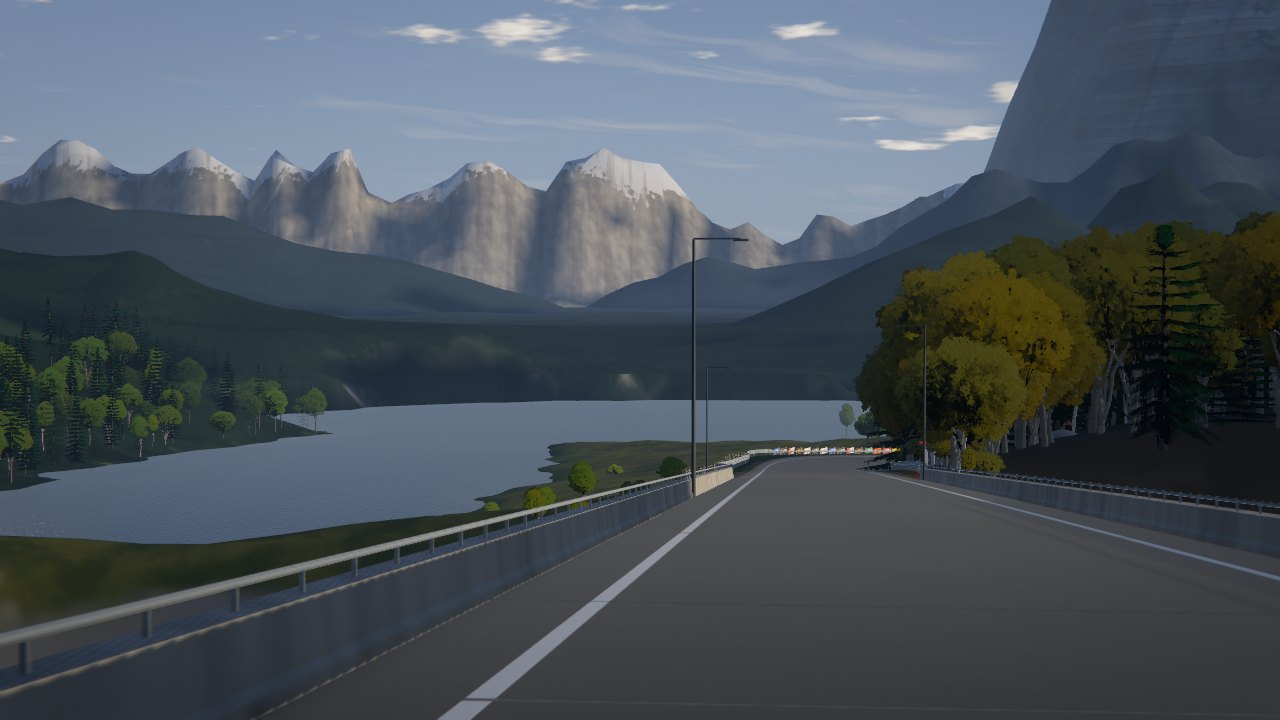
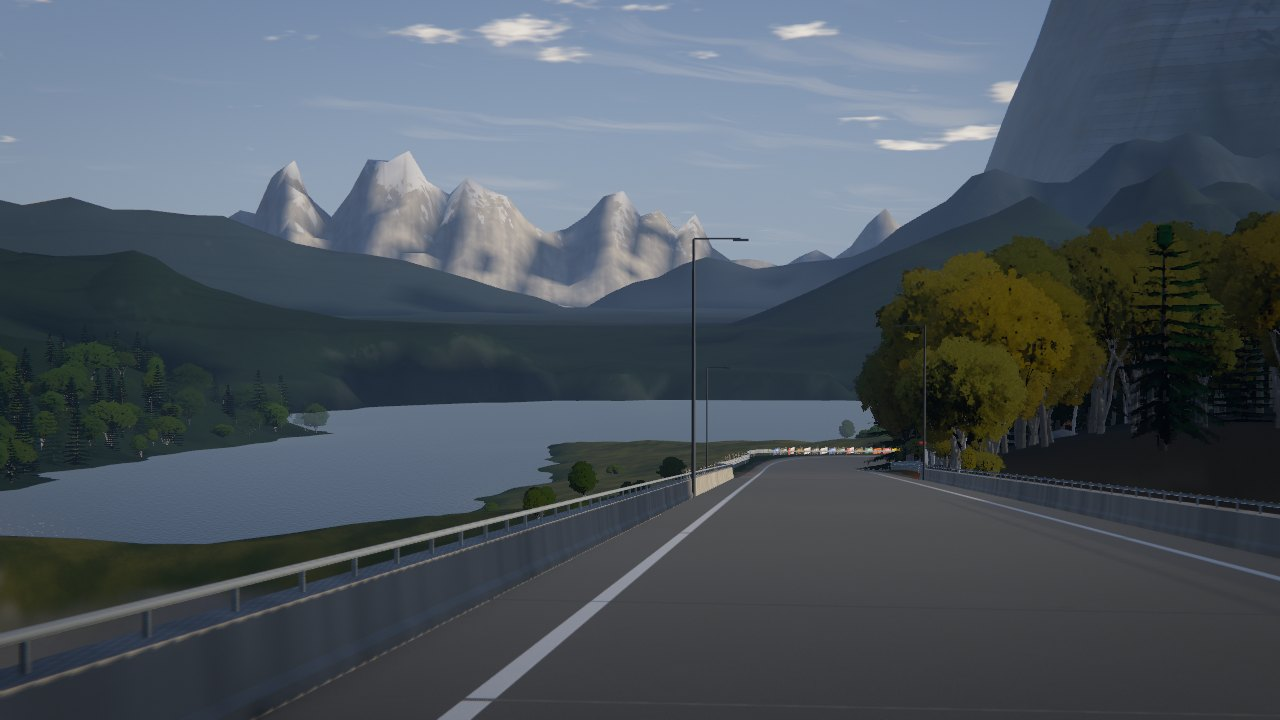
Dreamcar: the arm's range is one jagged massif, lit in paint; its shore's trees dark, skirted and uneven
Fourth round on the arm of the lake (r4): tone, paint and the shape of
scenery only.

The range read as a row of rounded lumps of one width with evenly spaced
gullies, in shade. It is composed as one massif now: a dominant summit left
of the road's line, a lesser one, shoulders stepping away; a skyline of
sharp peaks of uneven spacing and width; a sharp crest line; gullies that
branch on the way down. Its rock is paler and warmer on the faces square to
the day's sun and greyer on those turned from it, with small aretes painted
where the cells round the ridges off, the dusting of snow reaches further
down the sunward faces, and the whole is lifted towards the air's tone: it
stands at 0.96 of the sky's luminance in the measured box (the photograph
0.96; it was 0.70).

The far shores' forest mask is the dark wood's from the waterline whatever
the land's own (vertices at exactly 1.0 were painted by neither wood: the
pale patches at the water). The trees on the far shores, the lap's and the
place's, are darker, a fifth under the ground, wider and of uneven height;
the young growth and the low bushes on the bank are in the bank's own dark
tone. The painted wood is quieter.

Docs and the staged picture with it.

Claude-Session: https://claude.ai/code/session_01Wk7hSoYS2YpKJEfRQJQQPF

diff --git a/03-dreamcar/src/assets/world/arm.js b/03-dreamcar/src/assets/world/arm.js
@@ -92,8 +92,10 @@ export const ARM = {
    * [root angle, root distance, tip angle, tip distance, its crest's height at the root (m), half its width at the
    * root (m)]: the crest falls from root to tip, unevenly, and the flanks fall away from it. Behind them a range
    * of bare peaks closes the valley `range.at` m out (wandering by `wander`), `half` m from foot to crest, its
-   * crest `relief[0]` to `relief[0] + relief[1]` m high, between `angle` degrees; gullies run down its face
-   * (`gully`: degrees of bearing from one to the next, the share of the height they cut). Its snow is a dusting
+   * crest `relief[0]` to `relief[0] + relief[1]` m high, between `angle` degrees: one massif (`summit`: the
+   * bearing of its highest point and how wide it stands; `second`: a lesser summit's bearing, width and share;
+   * `low`: the shoulders' share far from both) with a jagged skyline; gullies branch down its face (`gully`:
+   * about how many degrees of bearing from one to the next, the share of the height they cut). Its snow is a dusting
    * that follows its own shape (`snow`: the share of a peak's height where it begins, and by how much that line
    * wanders along the range; `dust`: it thins out over this much below the line and thickens over this much
    * above it): it reaches lower in the gullies, lies thin on steep rock, thickest at the crests. The spurs are
@@ -105,7 +107,7 @@ export const ARM = {
     [45, 2350, 5, 2450, 330, 470],
     [-16, 3250, 9, 2950, 380, 520],
   ],
-  range: { at: 4050, wander: 170, half: 540, relief: [230, 380], angle: [-26, -12, 46, 60], gully: [2.3, 0.14], snow: [0.5, 0.2], dust: [0.22, 0.36] },
+  range: { at: 4050, wander: 170, half: 560, relief: [150, 560], angle: [-26, -12, 46, 60], summit: [13, 8], second: [-6, 5, 0.6], low: 0.3, gully: [3.1, 0.24], snow: [0.46, 0.18], dust: [0.24, 0.36] },
   /**
    * The open bank: beside the road from `open[0]` to `open[1]` m from the section's start, on the left, the lap's
    * woods give way as far as the water (and no further than `reach` m beyond the edge): grass, a fence, young
@@ -127,14 +129,16 @@ export const ARM = {
   fine: [110, 200],
   /**
    * What forest.js plants. `shore`: the wood on the far shores (from this many metres back from the water, this
-   * far up the hill, lattice, share planted, share of conifers, its tone over the trees' greens). `groups`: young
+   * far up the hill, lattice, share planted, share of conifers, its tone over the trees' greens; every tree of it,
+   * and every tree of the lap's that stands there, `sink` of its height under the ground and `wide` times as wide,
+   * skirted to the grass, and the lap's between `size` times their height: no two alike). `groups`: young
    * growth on the open bank: [metres from the section's start, metres beyond the left edge, how many, spread (m)],
    * birch and lime saplings sunk to their crowns, never taller than `young` m.
    */
   planting: {
-    shore: { from: 5, reach: 260, lattice: 6.2, density: 0.85, conifer: 0.6, tone: [0.3, 0.4, 0.44] },
+    shore: { from: 5, reach: 260, lattice: 6.2, density: 0.85, conifer: 0.6, tone: [0.14, 0.21, 0.2], sink: 0.2, wide: 1.35, size: [0.6, 1.15] },
     /** The young growth's tone and how wide each stands (irregular: no two alike). */
-    youngTone: [0.44, 0.5, 0.52],
+    youngTone: [0.15, 0.2, 0.17],
     /**
      * The massif's foot on the right of the road, from `along[0]` to `along[1]` m from the section's start: the dark
      * wood carried up the slope behind the lap's own rows, from `beyond[0]` to `beyond[1]` m beyond the right edge,
@@ -164,6 +168,8 @@ export const ARM = {
   fence: { from: -2, to: 168, beyond: 3.2 },
   /** The long grass (the approach meadow's cards): cards per metre of road as a share of the meadow's, their tint. */
   grass: { share: 1.4, tint: [1.15, 1.0, 0.7] },
+  /** The lap's low bushes on the open bank: a tint over their green (olive, in the bank's own tone; they were lit lime). */
+  bush: [2.1, 1.7, 1.1],
 };
 
 /**
@@ -316,17 +322,25 @@ function build(track, rng, section) {
     if (w <= 0) return peak;
     const across = 1 - Math.abs(r - (K.at + K.wander * Math.sin(a * 0.19 + 2))) / K.half;
     if (across <= 0) return peak;
-    // great peaks and saddles along the ridge, smaller peaks of uneven height between them
-    const crest = 0.58 * noise.ridged(a / 7.5 + 9, 3.3, 3) + 0.42 * noise.ridged(a / 2.3 + 4, 7.7, 2);
-    // ribs across its face, and gullies down it (they run down the fall line: along r, so they are a pattern of
-    // the bearing alone), deepest on the middle of the face
-    const rib = 0.74 + 0.26 * noise.fbm(a / 2.2, r / 240, 2);
-    const gully = noise.ridged(a / K.gully[0] + 1.7, 5.1, 2);
-    // (its foot is a long apron and its upper face steep: the height goes with the distance in from the foot
-    // to the power 1.5, buttresses standing out of it)
-    const butt = 0.85 + 0.3 * noise.fbm(a / 4.3 + 2, r / 420 + 1, 2);
-    const shape = w * Math.min(1, across * butt) ** 1.5 * rib * ((K.relief[0] + K.relief[1] * crest) / (K.relief[0] + K.relief[1]));
-    const up = shape * (1 - K.gully[1] * gully * smoothstep(0.04, 0.3, shape) * (1 - 0.6 * shape));
+    // One massif, not a row of peaks: a dominant summit off the middle of the view (`summit`: its bearing, how
+    // wide it stands, in degrees) with lower shoulders stepping away on either side, and a second, lesser one.
+    const main = Math.exp(-(((a - K.summit[0]) / K.summit[1]) ** 2));
+    const second = Math.exp(-(((a - K.second[0]) / K.second[1]) ** 2));
+    const massif = K.low + (1 - K.low) * Math.max(main, K.second[2] * second);
+    // its skyline: sharp peaks of uneven spacing and width (a ridge noise read at a bearing that is itself
+    // pushed about, raised to a power: narrow points, wide saddles), small teeth on them
+    const aw = a + 3.2 * (noise.fbm(a / 6.1 + 3, 1.9, 2) - 0.5) + 1.1 * (noise.fbm(a / 1.7 + 8, 4.4, 2) - 0.5);
+    const crest = (0.62 * noise.ridged(aw / 5.2 + 9, 3.3, 4) ** 1.7 + 0.26 * noise.ridged(aw / 1.9 + 4, 7.7, 3) ** 1.4 + 0.12 * noise.ridged(aw / 0.7 + 2, 1.2, 2)) * massif;
+    // its face: a long apron under a steep upper wall and a sharp crest line (no flat top), buttresses standing
+    // out of it, and gullies that begin under the crest and branch on the way down: a ridge noise of the bearing
+    // whose bearing is bent by the height, so that two gullies run together lower down and none is parallel to
+    // the next
+    const butt = 0.82 + 0.36 * noise.fbm(a / 4.3 + 2, r / 420 + 1, 2);
+    const face = across ** 1.35 * butt;
+    const ab = aw + (1 - across) * 2.6 * (noise.fbm(a / 2.9 + 5, 6.2, 2) - 0.5);
+    const gully = Math.max(noise.ridged(ab / K.gully[0] + 1.7, 5.1 + across * 0.8, 3) ** 1.5, 0.7 * noise.ridged(ab / (K.gully[0] * 0.37) + 6.3, 2.2 + across * 1.7, 2) ** 2);
+    const shape = w * face * ((K.relief[0] + K.relief[1] * crest) / (K.relief[0] + K.relief[1]));
+    const up = shape * (1 - K.gully[1] * gully * smoothstep(0.03, 0.22, shape) * (1 - 0.45 * across));
     peak.h = up * (K.relief[0] + K.relief[1]);
     peak.up = up;
     peak.gully = gully;
@@ -442,9 +456,9 @@ function build(track, rng, section) {
       // between a vertex in the water and one on the bank is then wooded to the waterline, not bare outcrop)
       if (q > -3) return 1.5 * (1 - o);
       const P = A.planting.shore;
-      const far = 0.92 * smoothstep(2, 7, -q) * (1 - smoothstep(P.reach, P.reach + 120, -q));
-      // (the wood on the far shores is the dark wood too)
-      return (Math.max(f, far) + 0.6 * far * (f <= 1 ? 1 : 0)) * (1 - o);
+      // (the wood on the far shores is the dark wood too, from the waterline: whatever the land's own mask is)
+      const far = 1 - smoothstep(P.reach, P.reach + 120, -q);
+      return Math.max(f, 1.5 * far) * (1 - o);
     },
 
     /** 0..1 how much of the ground at a point is the arm's own fine ground (terrain.js draws it there). */

diff --git a/03-dreamcar/src/assets/world/groundMaterial.js b/03-dreamcar/src/assets/world/groundMaterial.js
@@ -21,6 +21,7 @@ import { fieldTexture, gradientField, normalTexture, valueField, worleyField } f
 import { extend, withBake } from './shading.js';
 import { GOLDWOOD } from './goldwood.js';
 import { ARM } from './arm.js';
+import { TIMES } from './lighting.js';
 
 /**
  * (finish lane) The one green of the grass, linear albedo: the meadow (lush where it is damp, drier and a little
@@ -390,8 +391,8 @@ if ( gDark > 0.0 ) {
   float dCrown = texture2D( uLarge, vGroundPos.xz / 47.0 + vec2( 0.55, 0.17 ) ).b;
   float dClear = smoothstep( 0.66, 0.76, texture2D( uLarge, vGroundPos.xz / 137.0 + vec2( 0.77, 0.31 ) ).g );
   float dGully = texture2D( uLarge, vec2( ( vGroundPos.x * 0.6 + vGroundPos.z * 0.8 ) / 90.0, vGroundPos.y / 260.0 ) ).a;
-  vec3 wood = vec3( 0.0085, 0.017, 0.0105 ) * ( 0.62 + 0.5 * dStand + 0.45 * dCrown ) * ( 1.0 - 0.35 * smoothstep( 0.55, 0.8, dGully ) );
-  wood = mix( wood, vec3( 0.017, 0.028, 0.014 ) * ( 0.8 + 0.4 * dCrown ), dClear * 0.6 );
+  vec3 wood = vec3( 0.0095, 0.019, 0.0118 ) * ( 0.8 + 0.24 * dStand + 0.2 * dCrown ) * ( 1.0 - 0.3 * smoothstep( 0.55, 0.8, dGully ) );
+  wood = mix( wood, vec3( 0.015, 0.025, 0.013 ) * ( 0.85 + 0.3 * dCrown ), dClear * 0.5 );
   float dAir = smoothstep( 1100.0, 3400.0, length( vGroundPos.xz - uArmEye ) );
   wood = mix( wood, vec3( 0.055, 0.075, 0.105 ), dAir * 0.62 );
   gCanopy = mix( gCanopy, wood, gDark );
@@ -533,10 +534,17 @@ if ( gRange > 0.0 ) {
   float crease2 = texture2D( uLarge, vec2( ra * 53.0, rr / 900.0 ) ).r;
   float grain = texture2D( uLarge, vGroundPos.xz / 71.0 + vec2( 0.3, 0.8 ) ).g;
   float bed = texture2D( uLarge, vec2( ra * 9.0, vGroundPos.y / 190.0 ) ).b;
-  vec3 rock = mix( vec3( 0.165, 0.152, 0.134 ), vec3( 0.31, 0.288, 0.248 ), smoothstep( 0.3, 0.72, 0.34 * crease + 0.22 * crease2 + 0.22 * bed + 0.22 * grain ) ) * ( 0.86 + 0.28 * grain );
+  // (how squarely a face stands to the day's sun, lighting.js: its sunward faces are bleached, paler and warmer,
+  // and carry the dusting further down; the faces turned from it are greyer. This is paint, the same at every
+  // time of day: the light on it is the frame's own.)
+  float sunward = smoothstep( -0.15, 0.55, dot( gN, ${v3(TIMES.day.sun.dir)} ) );
+  // (ridges the 42 m cells round off: small aretes painted across the face, light on their sunward side)
+  float arete = texture2D( uLarge, vec2( ra * 31.0 + vGroundPos.y / 520.0, rr / 1500.0 + vGroundPos.y / 310.0 ) ).g;
+  float edge = smoothstep( 0.5, 0.62, arete ) - smoothstep( 0.62, 0.78, arete );
+  vec3 rock = mix( vec3( 0.19, 0.176, 0.156 ), vec3( 0.37, 0.343, 0.297 ), smoothstep( 0.3, 0.72, 0.34 * crease + 0.22 * crease2 + 0.22 * bed + 0.22 * grain ) ) * ( 0.86 + 0.28 * grain );
+  rock *= mix( vec3( 0.82, 0.86, 0.94 ), vec3( 1.3, 1.24, 1.1 ), sunward ) * ( 1.0 + 0.22 * edge * ( sunward - 0.35 ) );
   float ask = clamp( vMask.y - 5.0, 0.0, 1.0 );
-  // (a dusting: where the place asks for little it lies only in the creases, in flecks; higher up it closes, and
-  // the rock still shows through it in the creases' own pattern)
+  ask = clamp( ask + 0.3 * sunward * step( 0.02, ask ) * ( 1.0 - ask ) + 0.12 * edge, 0.0, 1.0 );
   // (its lower edge breaks up in flecks, by a grain with no direction: an edge broken along the creases hangs
   // like paint running down)
   float fleck = 0.5 * grain + 0.5 * texture2D( uLarge, vGroundPos.xz / 29.0 + vec2( 0.9, 0.4 ) ).r;
@@ -544,6 +552,8 @@ if ( gRange > 0.0 ) {
   snow *= 1.0 - 0.85 * smoothstep( 0.56, 0.7, 0.55 * crease + 0.45 * crease2 ) * ( 1.0 - 0.5 * ask );
   gSnow = snow * ( 0.5 + 0.3 * ask );
   gAlbedo = mix( rock, gSnowCol, gSnow );
+  // (the air in front of it: four kilometres of the day's haze lift it towards the sky's own tone)
+  gAlbedo = mix( gAlbedo, vec3( 0.46, 0.5, 0.57 ), 0.24 );
 }
 diffuseColor.rgb *= gAlbedo;
 // Seen against a low sun a plain rough surface glares (its Fresnel term goes to one at a grazing angle): rock and

diff --git a/03-dreamcar/src/assets/world/forest.js b/03-dreamcar/src/assets/world/forest.js
@@ -962,11 +962,17 @@ export function createForest({ renderer, track, terrain, tier, caps = null, cove
       if (!arm.moved(t.x, t.z)) continue;
       // (the lap's own trees that stay on the far shores take the shore wood's dark tone, and none of them has turned)
       const m = -arm.shore(t.x, t.z);
-      if (m > 0 && m < P.shore.reach + 60) {
+      if (m > 0 && m < P.shore.reach + 60 && !t.shore) {
         track.locate(t.x, t.z, -1, spot);
-        if (spot.lat > 0 && spot.lat - track.edgeAt(spot.s, 1) > ARM.reach * 0.5) {
+        // (every tree across the water from the road, and those further than half the bank's reach from it: sunk and
+        // widened, skirted to the grass, and of uneven height, by the number each drew when it was planted)
+        if (spot.lat > 0 && (spot.lat - track.edgeAt(spot.s, 1) > ARM.reach * 0.5 || arm.frame.toV(t.x, t.z) > ARM.tongueBox[2])) {
           t.tone = P.shore.tone;
           t.turned = 0;
+          t.h *= P.shore.size[0] + (P.shore.size[1] - P.shore.size[0]) * t.rank;
+          t.y -= P.shore.sink * t.h;
+          t.slim = (t.slim ?? 1) * P.shore.wide;
+          t.shore = true;
         }
       }
       if (lakeside?.moved(t.x, t.z)) continue;
@@ -1015,12 +1021,12 @@ export function createForest({ renderer, track, terrain, tier, caps = null, cove
         if (roll > W.density * (1 - 0.5 * smoothstep(W.reach * 0.5, W.reach, m))) continue;
         if (arm.clears(px, pz) || blocked(px, pz, 2.5) || !free(px, pz, 2.8)) continue;
         // (only on the far side of the water from the road: the lap's own woods stand everywhere else)
-        if (spot.lat <= 0 || Math.abs(spot.lat) - track.edgeAt(spot.s, 1) < ARM.reach * 0.5) continue;
+        if (spot.lat <= 0 || (Math.abs(spot.lat) - track.edgeAt(spot.s, 1) < ARM.reach * 0.5 && arm.frame.toV(px, pz) <= ARM.tongueBox[2])) continue;
         const y = seat(px, pz);
         if (y < arm.level + 0.4) continue;
         const edge = m < W.from + 14;
         const species = edge ? (kind < 0.3 ? BIRCH : kind < 0.45 ? LIME : kind < 0.6 ? HORNBEAM : kind < 0.8 ? FIR : NEEDLE[0]) : kind < W.conifer ? NEEDLE[kind < W.conifer * 0.6 ? 0 : 1] : kind < W.conifer + 0.18 ? BIRCH : kind < W.conifer + 0.32 ? LIME : kind < W.conifer + 0.42 ? HORNBEAM : MAPLE;
-        addTree(px, y - 0.3, pz, species, { road: false, turned: 0, inside: edge ? 0.3 : 0.7, detail: edge ? 0.8 : 0.5, from: ar, tone: W.tone, crownSun: true });
+        addTree(px, y - 0.3, pz, species, { road: false, turned: 0, inside: edge ? 0.3 : 0.7, detail: edge ? 0.8 : 0.5, from: ar, tone: W.tone, crownSun: true, sink: W.sink, slim: W.wide, young: 0.6 + 0.55 * kind });
       }
     }
     // the massif's foot on the right of the road: the dark wood carried up the slope behind the lap's own rows

diff --git a/03-dreamcar/src/assets/world/groundCover.js b/03-dreamcar/src/assets/world/groundCover.js
@@ -480,7 +480,7 @@ export function createGroundCover({ track, terrain, tier, rng, atmosphere, unifo
         const v = r.range(0.7, 1.2);
         // (on the lakeside's meadow the lap's own bushes are the meadow's: lit, warm, not the wood's dark green)
         // (in the golden wood they have turned with it: ochre and rust, not the wood's dark green)
-        const lit = terrain.lakeside?.open(s, side) || terrain.arm?.opens(s, side) ? [5, 4.2, 2.6] : goldwood?.here(s) ? GOLDWOOD.bush : [1, 1, 1];
+        const lit = terrain.arm?.opens(s, side) ? ARM.bush : terrain.lakeside?.open(s, side) ? [5, 4.2, 2.6] : goldwood?.here(s) ? GOLDWOOD.bush : [1, 1, 1];
         const bush = make(point.x, y - 0.1, point.z, r.range(0, Math.PI), [h * 1.4, h, h * 1.4], GRASS.bush.map((c, k) => c * v * lit[k]), h);
         // (ref lane: none on a tunnel's meadow, which is open grass to the fence; the numbers are drawn all the same)
         if (!((terrain.placeAt?.(point.x, point.z)?.meadow ?? 0) > 0.5)) bushItems.push(bush);

diff --git a/03-dreamcar/docs/spec.md b/03-dreamcar/docs/spec.md
@@ -117,11 +117,11 @@ road's heading there and v to its left.
 | the ground | only ever lowered, on the left of the road beside s = 3785 to 4945 m (eased over 60 m), from 1.5 m beyond the solid edge (all of it from 52 m), within 240 m of the shore (all of it within 140 m): no higher than a beach of 0.11 per metre for 7 m and a bank of 0.36 per metre on the far shores, 0.1 per metre on the land between the water and the road (90 to 690 m along, up to 150 m left), with knolls of 3 m; 74 ha lowered round the water, by 105 m at most (the hill that closed the valley south of the long right) |
 | the valley beyond | seen from the bridge (150 m before its end), between 20 degrees right (all of it from 10) and 54 degrees left (all of it to 40) of the road and from 900 m (all of it from 1400) to 5300 m (all of it to 4500), the land keeps 22 % of what it stood over 14 m |
 | its spurs | four, each [root: degrees left of the road, metres out; tip: the same; crest at the root, m; half width at the root, m]: [46.6, 1240; 7.9, 1090; 175; 360] (down to the arm's shore), [-14, 2100; 2, 1350; 250; 400], [45, 2350; 5, 2450; 330; 470], [-16, 3250; 9, 2950; 380; 520]; crests fall to 6 % at the tip, 0.78 to 1.18 times that along the way; forest mask up to 1.7 (dark wood) |
-| its range | across the valley 4050 m out (wandering by 170 m), 540 m from foot to crest, a long apron under a steep upper face (height as the distance in from the foot to the power 1.5), crests 230 to 610 m over the floor: great peaks every 7.5 degrees of bearing and smaller ones every 2.3; gullies down its face every 2.3 degrees, 14 % of the height deep; between 26 degrees right (all of it from 12) and 60 left (all of it to 46). Rock [0.165, 0.152, 0.134] to [0.31, 0.288, 0.248]; snow asked for from 50 % of a peak's height (the line wanders by 20 %), thinning over 22 % below it and closing over 36 % above, 22 % lower in the gullies and a quarter as much on steep rock; drawn at 0.5 to 0.8 of white, broken in flecks at its edge, with the rock showing in the creases |
+| its range | across the valley 4050 m out (wandering by 170 m), 560 m from foot to crest, a long apron under a steep upper face with a sharp crest line, between 26 degrees right (all of it from 12) and 60 left (all of it to 46): one massif, its summit 13 degrees left of the road (8 degrees wide) and up to 710 m over the floor, a lesser one 6 degrees right at 0.6 of it, shoulders down to 0.3; a skyline of sharp peaks of uneven spacing (ridge noise raised to a power, read at a bearing pushed about by up to 3 degrees), gullies about every 3 degrees that branch on the way down, 24 % of the height deep. Rock [0.19, 0.176, 0.156] to [0.37, 0.343, 0.297], times [1.3, 1.24, 1.1] on faces square to the day's sun and [0.82, 0.86, 0.94] on those turned from it, painted aretes, and 24 % of the air's tone [0.46, 0.5, 0.57] over all of it; snow asked for from 46 % of a peak's height (the line wanders by 18 %), thinning over 24 % below it and closing over 36 % above, lower in the gullies and on sunward faces, a quarter as much on steep rock; drawn at 0.5 to 0.8 of white, broken in flecks at its edge, with the rock showing in the creases |
 | fine ground | two patches beyond the grid's rectangle, one draw call each, the lattice under them sunk 60 m: `terrain-arm`, within 110 m of the shore (gone by 200 m), 14 m cells (low: 28 m), 2.9 k triangles on medium (inside the rectangle the grid does not ease onto the far land there); `terrain-arm-valley`, the spurs to 1.25 times their half width and the range, 42 m cells (low: 84 m), about 18 k triangles on medium and 4.5 k on low |
-| the spurs' wood | painted where the forest mask is over 1: [0.0085, 0.017, 0.0105] in stands at 173 m and crowns at 47 m, clearings [0.017, 0.028, 0.014] at 137 m, gullies 35 % darker; towards [0.055, 0.075, 0.105] by up to 62 % between 1100 and 3400 m from the valley's eye; no rock or scree under it; the bed off the far shores carries the mask too |
+| the spurs' wood | painted where the forest mask is over 1: [0.0095, 0.019, 0.0118] in stands at 173 m and crowns at 47 m (0.8 to 1.24 times), clearings [0.015, 0.025, 0.013] at 137 m, gullies 30 % darker; towards [0.055, 0.075, 0.105] by up to 62 % between 1100 and 3400 m from the valley's eye; no rock or scree under it; the bed off the far shores carries the mask too |
 | the open bank | on the left beside s = 4095 to 4495 m (eased over 30 m), to 330 m beyond the edge: no wood (the Track's `lowDown` and `lowRun` woods are cleared there), and only on the road's side of the water (up to 150 m left of the frame's axis); its grass painted per pixel between [0.032, 0.046, 0.022] and [0.105, 0.1, 0.036] from 9 m (all of it from 22 m) beyond the road's centre line on the water's side, 40 m before the bridge's end to 620 m after it and up to 125 m left of the frame's axis |
-| trees | the lap's own cleared in the water, on its beach and on the open bank; planted: nine groups of four to seven birch saplings (a hornbeam in five) on the bank, 2.6 to 5.2 m over the ground, three tenths of each under it, 1.1 to 2 times as wide, toned [0.44, 0.5, 0.52]; a wood on the far shores from 5 m back from the water to 260 m (lattice 6.2 m, 85 % planted, six in ten conifers, toned [0.3, 0.4, 0.44]; the lap's own trees that stand there take the tone and none has turned), only where the forest draws trees at all (within 250 m of the course's bounds) and no nearer than 165 m to the road; on the right of the road from 200 m before the bridge's end to 330 m after it, spruce and fir 13 to 22 m tall on a 6.4 m lattice from 34 to 230 m beyond the edge, up to 175 m over the lake, a quarter of each under the ground and 1.5 times as wide, toned [0.4, 0.5, 0.58]; the lap's own trees on the right from 380 m before the bridge's end to 420 m after it, to 260 m beyond the edge: broadleaves toned [0.5, 0.39, 0.42], conifers 24 % of their height deeper and 1.5 times as wide, toned [0.5, 0.58, 0.62] |
+| trees | the lap's own cleared in the water, on its beach and on the open bank; planted: nine groups of four to seven birch saplings (a hornbeam in five) on the bank, 2.6 to 5.2 m over the ground, three tenths of each under it, 1.1 to 2 times as wide, toned [0.15, 0.2, 0.17]; a wood on the far shores from 5 m back from the water to 260 m (lattice 6.2 m, 85 % planted, six in ten conifers, toned [0.14, 0.21, 0.2], a fifth of each tree under the ground and 1.35 times as wide, 0.6 to 1.15 of its species' height; the lap's own trees that stand there are treated the same and none has turned), only where the forest draws trees at all (within 250 m of the course's bounds), across the water from the road or further than 165 m from it; the lap's low bushes on the open bank tinted [2.1, 1.7, 1.1]; on the right of the road from 200 m before the bridge's end to 330 m after it, spruce and fir 13 to 22 m tall on a 6.4 m lattice from 34 to 230 m beyond the edge, up to 175 m over the lake, a quarter of each under the ground and 1.5 times as wide, toned [0.4, 0.5, 0.58]; the lap's own trees on the right from 380 m before the bridge's end to 420 m after it, to 260 m beyond the edge: broadleaves toned [0.5, 0.39, 0.42], conifers 24 % of their height deeper and 1.5 times as wide, toned [0.5, 0.58, 0.62] |
 | ground cover | long grass (`cover-meadow`, tinted [1.15, 1.0, 0.7]) 3.5 / 16.8 / 22.4 a metre of road (low / medium / high) on the left of the open bank's stretch, 55 % of it within 1.6 m before and 3.8 m behind the barrier, the rest down the bank to 44 m; none of the lap's dark tufts there |
 | the fence | posts every 2.6 m (low: 5.2 m) 3.2 m beyond the left solid edge from the bridge's end to 168 m after it, three wires (low: one); in the lakeside fence's one mesh |
 

diff --git a/03-dreamcar/docs/design.md b/03-dreamcar/docs/design.md
@@ -690,8 +690,9 @@ module describes it (`src/assets/world/arm.js`).
   boards on the outside of the bend are the circuit's own.
 - **The far shores.** West of the arm the hills rise straight from the
   water under a dark wood (conifers mostly; the lap's own trees that stand
-  there take its tone), with the pale hall of frame D3 on its hilltop
-  behind them. The wood comes down to the waterline, and the shore is a
+  there take its tone, are skirted to the grass and of uneven height: no
+  bright round crown on a stem), with the pale hall of frame D3 on its
+  hilltop behind them. The wood comes down to the waterline, and the shore is a
   curve with coves, not the far land's straight facets.
 - **The valley beyond.** South of the arm the land that closed the view is
   a valley floor now, and on it stand the photograph's spurs: four dark
@@ -699,10 +700,12 @@ module describes it (`src/assets/world/arm.js`).
   from the left and the right by turns, the first to the arm's shore. Each
   is a forested slope (darker and lighter stands, a clearing here and
   there, shaded gullies), and each is paler and bluer than the one before.
-  Behind them a range of many uneven peaks closes the valley four
-  kilometres off: pale warm grey rock with darker gullies down its face and
-  a thin, broken dusting of snow that is thickest on the crests and
-  reaches down the gullies, the palest thing below the sky.
+  Behind them one massif closes the valley four kilometres off: a
+  dominant summit left of the road's line with lower shoulders stepping
+  away on both sides, a jagged skyline, gullies that branch down its face;
+  pale warm rock, bleached on its sunward faces, under a thin broken
+  dusting of snow, lifted by four kilometres of air to nearly the sky's
+  own brightness.
 - **The light** is the day's own: the sun 16 degrees up on the right of the
   descent, so the bank below the road is in its own shade, and the water,
   the western shore and the ridges beyond are lit.
@@ -713,18 +716,19 @@ end, a long lens (24 degrees) down the road, the car behind the camera.
 What still differs from the photograph (tools.md): the photograph is a dim,
 overcast, nearly colourless exposure and ours is the lap's sunny day, which
 is not this place's to change. As shares of the sky's luminance: the near
-wooded slope 0.10 (the photograph 0.05), the spur behind it 0.19 (0.10), the
-far range 0.70 (0.96), the water 0.42 (0.46). The order is the photograph's,
+wooded slope 0.09 (the photograph 0.05), the spur behind it 0.20 (0.10), the
+far range 0.96 (0.96), the water 0.42 (0.46). The order is the photograph's,
 dark to pale with distance, but the day's haze lifts the near spurs (they
-cannot be darker than the air in front of them) and the range, seen in its
-own shade with only its right-hand faces in the sun, is not as bright as
-the photograph's sunlit massif. The range's peaks are rounder than rock
-(a 42 m grid) and its gullies are regular; the spurs' wood is paint, with
-no trees on their skylines. The foreground is the bridge's parapet and the
+cannot be darker than the air in front of them). The range is as bright
+as the photograph's by paint (bleached sunward faces, a lift towards the
+air's tone), not by light: at golden hour and at night it is the same
+paint under those lights. Its peaks are sharp in outline but smooth in
+surface (a 42 m grid); the spurs' wood is paint, with no trees on their
+skylines. The foreground is the bridge's parapet and the
 lap's asphalt, not a gravel verge with dry grass (the long grass and the
 fence begin where the bridge ends); there is no dark band of wood before
-the water, no sign, no centre line; the road bends right, not left; one
-small pale patch is left on the far bank at the waterline.
+the water, no sign, no centre line; the road bends right, not left; a
+faintly lighter band lies along the foot of the far bank.
 
 Seen from elsewhere: the ledge's first bend (frame D3) looks the same way,
 and where a dark ridge closed its view behind the boards it now has the

diff --git a/03-dreamcar/docs/techniques.md b/03-dreamcar/docs/techniques.md
@@ -900,11 +900,19 @@ bed off the far shores carries the mask too, so that the strip between a
 vertex in the water and one on the bank is wood to the waterline (it was
 pale outcrop: the "blobs" at the shore).
 
-**The range.** A ridge across the valley 4 km out (`peakAt`): great peaks
-and smaller ones between them from two ridged noises of the bearing, a long
-apron under a steep upper face, ribs across the face and gullies down it.
-The gullies are a function of the bearing alone, because the fall line of a
-range that lies across the valley is the line from the eye. Its rock and
+**The range.** A ridge across the valley 4 km out (`peakAt`), composed as
+one massif: an envelope with a dominant summit off the view's middle, a
+lesser one and low shoulders. Its skyline is ridge noise raised to a power
+(narrow points, wide saddles) and read at a bearing that is itself pushed
+about by a slower noise, so that no two peaks are the same width or the
+same distance apart; a first version, two ridged noises of the plain
+bearing under a flat-topped profile, made a row of sugar loaves. The face
+is a long apron under a steep wall with a sharp crest line. The gullies are
+a pattern of the bearing (the fall line of a range that lies across the
+valley is the line from the eye), but the bearing they are read at is bent
+by the height on the face, so they run together on the way down instead of
+hanging parallel.
+Its rock and
 snow are not the lakeside's negative forest mask (whose streaks are laid
 out round the lakeside's own eye: here they hung down the face like paint).
 The patch's vertices carry `aMask.y = 5 + ask`: 5 says "the arm's range",
@@ -914,7 +922,15 @@ range, more in the gullies, less on steep rock. The material paints pale
 warm grey rock, darker in creases laid out in polar coordinates round the
 valley's eye (fine across the bearing, long down the fall line), and lays
 the snow where `ask` says, with its edge broken in flecks by a grain that
-has no direction and the rock left showing in the creases.
+has no direction and the rock left showing in the creases. The range
+faces away from the day's sun and stood at 0.7 of the sky's brightness
+where the photograph's is nearly the sky's: its rock is paler and warmer
+on the faces square to the day's sun (the sun's direction from
+`lighting.js`, as paint: the same at every time of day) and greyer on
+those turned from it, small aretes are painted across the face where the
+42 m cells round the ridges off, the dusting reaches further down the
+sunward faces, and the whole is mixed a quarter of the way to the air's
+tone, as four kilometres of haze would.
 
 **Fine ground for the valley.** The spurs and the range were the far land's
 100 m facets: flat planes with ruler-straight creases. A second patch

diff --git a/03-dreamcar/docs/tools.md b/03-dreamcar/docs/tools.md
@@ -486,6 +486,26 @@ Read this before believing anything above about a device.
   screen here; the esses were not looked at again (nothing of theirs changed). The rest of the playtest and the
   sound test were not run.
 
+- **The arm of the lake, fourth round** (2026-11-27: tone, paint and the shape of scenery only; the range as one
+  jagged massif, lit in paint; the far-shore trees and the bank's young growth and bushes darker, skirted and of
+  uneven size; the dark wood's mask whole from the waterline). `node tools/unit.mjs`: 11 files passed. The
+  playtest's `keys`, `photo` and `determinism` sections against the final build: 58 checks, 0 failed. Stills in
+  the same run before (e0b0b36) and after at `medium` 1280x720: `?photo=r1` 0.016 % of pixels differ at all (none
+  by more than 8 in 255); `?photo=r2` 0.052 % (0.002 %); `?photo=d1` 3.2 % (0.42 %: the car's paint and a few
+  levels on the asphalt); `?photo=d3` 12.6 % (3.7 %): the massif stands on its horizon between the boards and the
+  trees, small and pale, and was looked at there. Looked at: `?photo=r4` by day, at golden hour, at night and on
+  `low`; the chase view on an upright phone's shape at lap 1:17.8, 1:20.8 and 1:23.8. Found by hiding meshes and
+  by painting each source of trees its own colour in a throw-away build: the pale patches left at the far
+  waterline were vertices of the shore's patch whose forest mask came out at 1.0, between the lap's wood and the
+  place's dark wood, so that neither painted them (now the far shores' mask is 1.5 from the waterline, whatever
+  the land's own); the bright trees on the near left shore were toned already, but not enough for crowns in full
+  sun. Against the photograph, as shares of the sky's luminance: near wooded slope 0.09 (0.05), middle spur 0.20
+  (0.10), far range 0.96 (0.96), water 0.42 (0.46). Costs at t = 84, 87 and 90 are the third round's to within
+  1 k triangles (spec.md). Regenerated: `lake-arm.jpg`. Not verified: the `high` tier; anything in motion; the
+  range's paint at golden hour and at night beyond one still of each (it is paint for the day's sun); a real GPU;
+  the crest and the plunge were not shot again (the range's shape changed, its place did not). The rest of the
+  playtest and the sound test were not run in this round (the lead ran both on the third round's tree).
+
 - **The return to main's version with fixes only** (2026-11-23 to 26: the far land's hole, no ground, structure or
   furniture over the road or inside its edges, the tree shadows' casters in split screen, the pad where the thumb
   lands and the pedal gauge, the quality ladder, the upscale and the readout). `node tools/unit.mjs`: 8 files passed;

diff --git a/03-dreamcar/docs/ideas.md b/03-dreamcar/docs/ideas.md
@@ -32,11 +32,11 @@ comparison stills and strike what is done.
   above the walls are single crowns from far off, not a closed wood.
 - **The arm of the lake against its photograph** (design.md, "The arm of the
   lake"): the light is the sunny day's, so the spurs are hazy blue-grey
-  where the photograph's are near black, and the range stands in its own
-  shade; its peaks are round at 42 m a cell and its gullies evenly spaced;
-  the spurs' wood is painted, with no trees on their skylines; from the
-  bridge the foreground is a parapet, not a verge; one pale patch is left
-  on the far bank at the water.
+  where the photograph's are near black; the range is bright by paint,
+  not by light (the same paint at golden hour and at night), and smooth
+  between its ridges at 42 m a cell; the spurs' wood is painted, with no
+  trees on their skylines; from the bridge the foreground is a parapet,
+  not a verge; a faintly lighter band lies along the far bank's foot.
 - **The ground beside the sky road** reads from above as a pale, rippled
   bare slope (`docs/images/sky-road.jpg`), not the wooded valley under the
   columns of frame A.
